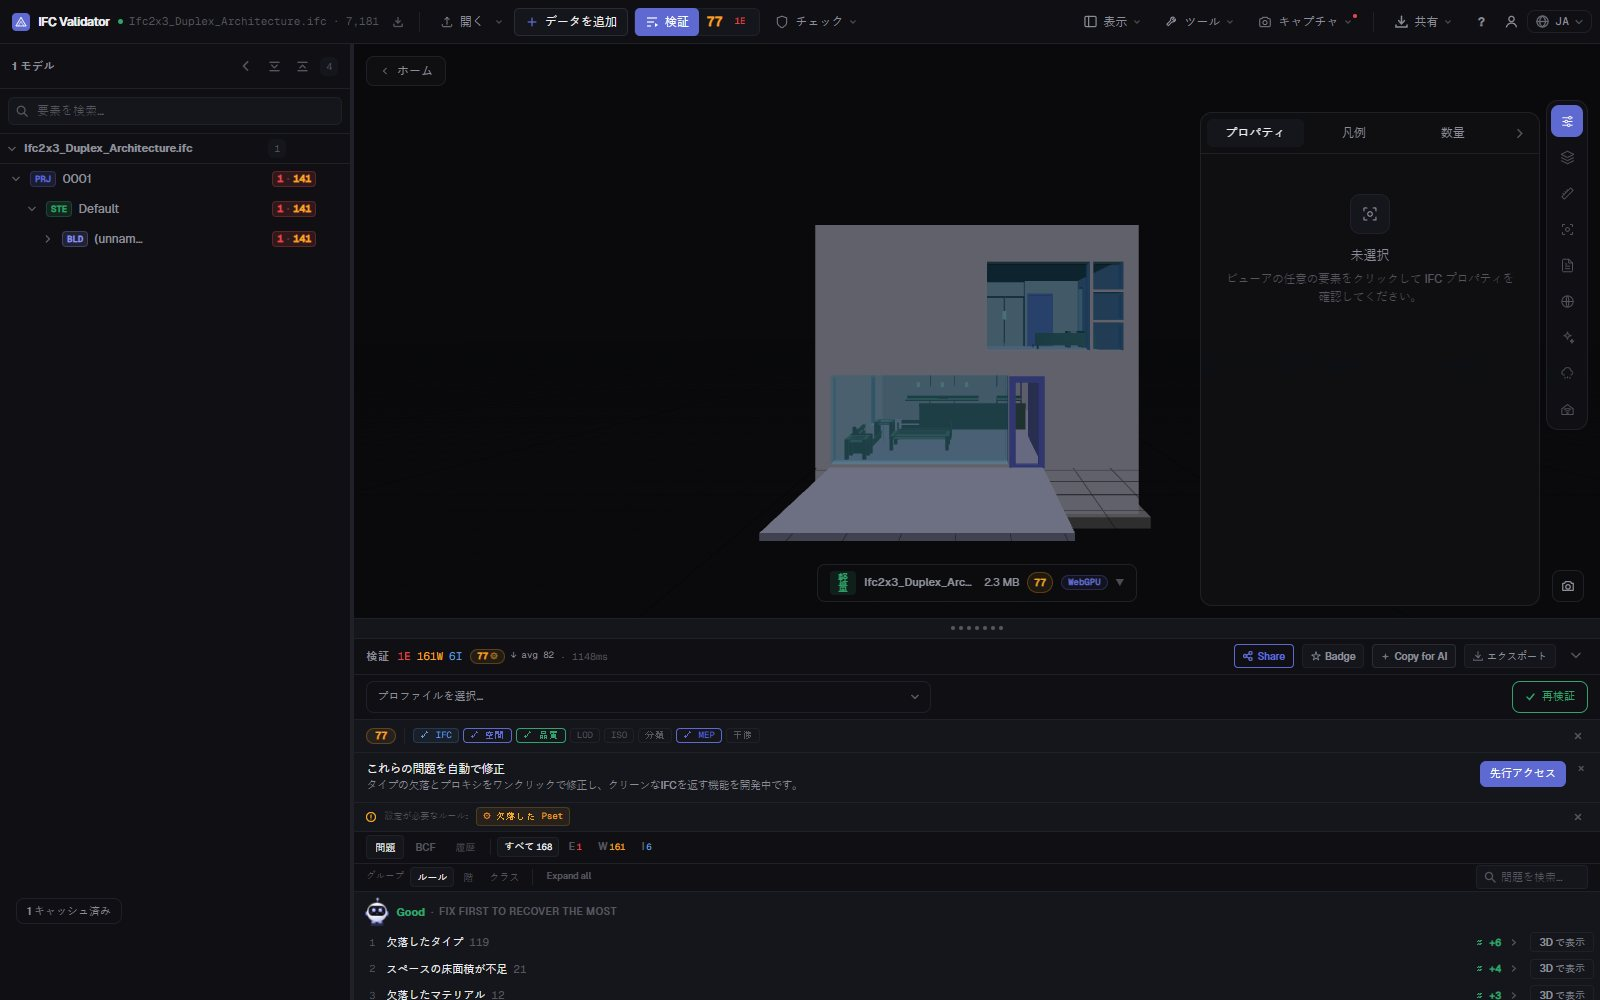
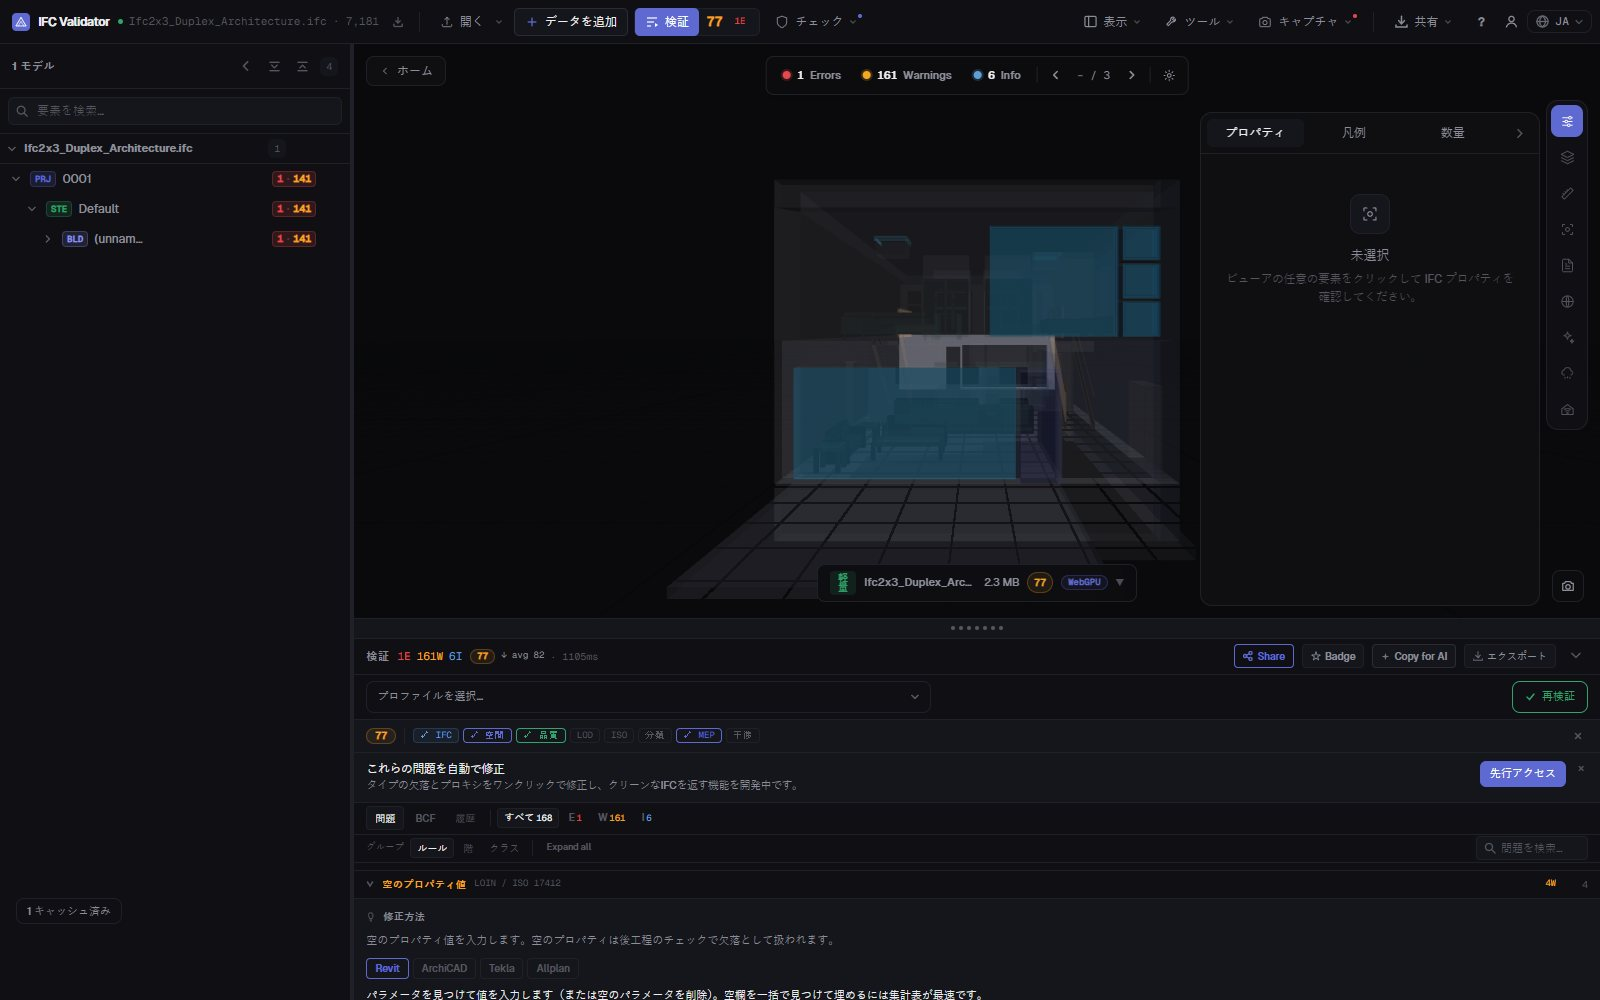
fix(seo): classification landings show empty property values, not an unconfigured Pset rule
The second screenshot on the 10 classification landings came from
RULE_MISSING_PROPERTY_SET, which needs required Psets configured and so found
nothing on the sample model. Recaptured with RULE_EMPTY_PROPERTY_VALUE (runs
without setup: group, how-to-fix and the elements isolated in 3D), with alt
text and captions rewritten in every language.

diff --git a/public/th/ifc-classification-checker/index.html b/public/th/ifc-classification-checker/index.html
@@ -100,8 +100,8 @@
       "@id": "https://www.ifcvieweronline.eu/img/bim-property-set-validation-th.jpg",
       "contentUrl": "https://www.ifcvieweronline.eu/img/bim-property-set-validation-th.jpg",
       "url": "https://www.ifcvieweronline.eu/img/bim-property-set-validation-th.jpg",
-      "name": "การตรวจสอบชุดคุณสมบัติ BIM แสดงองค์ประกอบที่ขาด Pset ในโมเดล IFC",
-      "caption": "การตรวจสอบแบบเดียวกันสำหรับชุดคุณสมบัติที่ขาด",
+      "name": "การตรวจสอบชุดคุณสมบัติ BIM แสดงองค์ประกอบที่มีค่าคุณสมบัติว่างในโมเดล IFC แยกแสดงใน 3D",
+      "caption": "ตรวจชุดคุณสมบัติ: องค์ประกอบที่มีค่าคุณสมบัติว่าง แสดงรายการและแสดงใน 3D",
       "width": 1600,
       "height": 1000,
       "inLanguage": "th",
@@ -268,8 +268,8 @@
       <div class="container">
         <p class="label">ภาพหน้าจอ</p>
         <figure>
-          <img src="../../img/bim-property-set-validation-th.jpg" width="1600" height="1000" alt="การตรวจสอบชุดคุณสมบัติ BIM แสดงองค์ประกอบที่ขาด Pset ในโมเดล IFC" loading="lazy" decoding="async" />
-          <figcaption>การตรวจสอบแบบเดียวกันสำหรับชุดคุณสมบัติที่ขาด</figcaption>
+          <img src="../../img/bim-property-set-validation-th.jpg" width="1600" height="1000" alt="การตรวจสอบชุดคุณสมบัติ BIM แสดงองค์ประกอบที่มีค่าคุณสมบัติว่างในโมเดล IFC แยกแสดงใน 3D" loading="lazy" decoding="async" />
+          <figcaption>ตรวจชุดคุณสมบัติ: องค์ประกอบที่มีค่าคุณสมบัติว่าง แสดงรายการและแสดงใน 3D</figcaption>
         </figure>
         <div data-live-embed data-app="../../th/" data-model="https://raw.githubusercontent.com/youshengCode/IfcSampleFiles/main/Ifc4_SampleHouse.ifc" data-validate data-panel data-lang="th"
              data-title="ตรวจสอบการจัดหมวดหมู่ IFC" data-cta="ตรวจสอบการจัดหมวดหมู่ — ฟรี" style="--le-h:560px;margin-top:32px"></div>

diff --git a/public/es/comprobar-clasificacion-ifc/index.html b/public/es/comprobar-clasificacion-ifc/index.html
@@ -100,8 +100,8 @@
       "@id": "https://www.ifcvieweronline.eu/img/validacion-conjuntos-propiedades-bim.jpg",
       "contentUrl": "https://www.ifcvieweronline.eu/img/validacion-conjuntos-propiedades-bim.jpg",
       "url": "https://www.ifcvieweronline.eu/img/validacion-conjuntos-propiedades-bim.jpg",
-      "name": "Validación de conjuntos de propiedades BIM con los elementos a los que les faltan Psets en un modelo IFC",
-      "caption": "La misma comprobación para los conjuntos de propiedades que faltan.",
+      "name": "Validación de conjuntos de propiedades BIM con los elementos con valores de propiedad vacíos en un modelo IFC, aislados en 3D",
+      "caption": "Validación de Psets: elementos con propiedades vacías, listados y mostrados en 3D.",
       "width": 1600,
       "height": 1000,
       "inLanguage": "es",
@@ -268,8 +268,8 @@
       <div class="container">
         <p class="label">Capturas</p>
         <figure>
-          <img src="../../img/validacion-conjuntos-propiedades-bim.jpg" width="1600" height="1000" alt="Validación de conjuntos de propiedades BIM con los elementos a los que les faltan Psets en un modelo IFC" loading="lazy" decoding="async" />
-          <figcaption>La misma comprobación para los conjuntos de propiedades que faltan.</figcaption>
+          <img src="../../img/validacion-conjuntos-propiedades-bim.jpg" width="1600" height="1000" alt="Validación de conjuntos de propiedades BIM con los elementos con valores de propiedad vacíos en un modelo IFC, aislados en 3D" loading="lazy" decoding="async" />
+          <figcaption>Validación de Psets: elementos con propiedades vacías, listados y mostrados en 3D.</figcaption>
         </figure>
         <div data-live-embed data-app="../../es/" data-model="https://raw.githubusercontent.com/youshengCode/IfcSampleFiles/main/Ifc4_SampleHouse.ifc" data-validate data-panel data-lang="es"
              data-title="Comprobar la clasificación IFC" data-cta="Comprobar la clasificación — gratis" style="--le-h:560px;margin-top:32px"></div>

diff --git a/public/fr/verifier-classification-ifc/index.html b/public/fr/verifier-classification-ifc/index.html
@@ -100,8 +100,8 @@
       "@id": "https://www.ifcvieweronline.eu/img/validation-jeux-de-proprietes-bim.jpg",
       "contentUrl": "https://www.ifcvieweronline.eu/img/validation-jeux-de-proprietes-bim.jpg",
       "url": "https://www.ifcvieweronline.eu/img/validation-jeux-de-proprietes-bim.jpg",
-      "name": "Validation des jeux de propriétés BIM montrant les éléments sans Psets dans une maquette IFC",
-      "caption": "Le même contrôle pour les jeux de propriétés manquants.",
+      "name": "Validation des jeux de propriétés BIM montrant les éléments aux valeurs de propriétés vides dans une maquette IFC, isolés en 3D",
+      "caption": "Validation des Psets : éléments aux propriétés vides, listés et montrés en 3D.",
       "width": 1600,
       "height": 1000,
       "inLanguage": "fr",
@@ -268,8 +268,8 @@
       <div class="container">
         <p class="label">Captures</p>
         <figure>
-          <img src="../../img/validation-jeux-de-proprietes-bim.jpg" width="1600" height="1000" alt="Validation des jeux de propriétés BIM montrant les éléments sans Psets dans une maquette IFC" loading="lazy" decoding="async" />
-          <figcaption>Le même contrôle pour les jeux de propriétés manquants.</figcaption>
+          <img src="../../img/validation-jeux-de-proprietes-bim.jpg" width="1600" height="1000" alt="Validation des jeux de propriétés BIM montrant les éléments aux valeurs de propriétés vides dans une maquette IFC, isolés en 3D" loading="lazy" decoding="async" />
+          <figcaption>Validation des Psets : éléments aux propriétés vides, listés et montrés en 3D.</figcaption>
         </figure>
         <div data-live-embed data-app="../../fr/" data-model="https://raw.githubusercontent.com/youshengCode/IfcSampleFiles/main/Ifc4_SampleHouse.ifc" data-validate data-panel data-lang="fr"
              data-title="Vérifier la classification IFC" data-cta="Vérifier la classification — gratuit" style="--le-h:560px;margin-top:32px"></div>

diff --git a/public/pt/verificar-classificacao-ifc/index.html b/public/pt/verificar-classificacao-ifc/index.html
@@ -100,8 +100,8 @@
       "@id": "https://www.ifcvieweronline.eu/img/validacao-conjuntos-propriedades-bim.jpg",
       "contentUrl": "https://www.ifcvieweronline.eu/img/validacao-conjuntos-propriedades-bim.jpg",
       "url": "https://www.ifcvieweronline.eu/img/validacao-conjuntos-propriedades-bim.jpg",
-      "name": "Validação de conjuntos de propriedades BIM com os elementos sem Psets num modelo IFC",
-      "caption": "A mesma verificação para conjuntos de propriedades em falta.",
+      "name": "Validação de conjuntos de propriedades BIM com os elementos com valores de propriedade vazios num modelo IFC, isolados em 3D",
+      "caption": "Validação de Psets: elementos com propriedades vazias, listados e mostrados em 3D.",
       "width": 1600,
       "height": 1000,
       "inLanguage": "pt",
@@ -268,8 +268,8 @@
       <div class="container">
         <p class="label">Capturas</p>
         <figure>
-          <img src="../../img/validacao-conjuntos-propriedades-bim.jpg" width="1600" height="1000" alt="Validação de conjuntos de propriedades BIM com os elementos sem Psets num modelo IFC" loading="lazy" decoding="async" />
-          <figcaption>A mesma verificação para conjuntos de propriedades em falta.</figcaption>
+          <img src="../../img/validacao-conjuntos-propriedades-bim.jpg" width="1600" height="1000" alt="Validação de conjuntos de propriedades BIM com os elementos com valores de propriedade vazios num modelo IFC, isolados em 3D" loading="lazy" decoding="async" />
+          <figcaption>Validação de Psets: elementos com propriedades vazias, listados e mostrados em 3D.</figcaption>
         </figure>
         <div data-live-embed data-app="../../pt/" data-model="https://raw.githubusercontent.com/youshengCode/IfcSampleFiles/main/Ifc4_SampleHouse.ifc" data-validate data-panel data-lang="pt"
              data-title="Verificar a classificação IFC" data-cta="Verificar a classificação — grátis" style="--le-h:560px;margin-top:32px"></div>

diff --git a/public/ja/ifc-classification-checker/index.html b/public/ja/ifc-classification-checker/index.html
@@ -100,8 +100,8 @@
       "@id": "https://www.ifcvieweronline.eu/img/bim-property-set-validation-ja.jpg",
       "contentUrl": "https://www.ifcvieweronline.eu/img/bim-property-set-validation-ja.jpg",
       "url": "https://www.ifcvieweronline.eu/img/bim-property-set-validation-ja.jpg",
-      "name": "IFC モデルでプロパティセットが欠落した要素を示す BIM プロパティセット検証",
-      "caption": "欠落したプロパティセットにも同じチェック。",
+      "name": "IFC モデルでプロパティ値が空の要素を 3D で分離表示する BIM プロパティセット検証",
+      "caption": "プロパティセット検証：値が空の要素を一覧表示し 3D で表示。",
       "width": 1600,
       "height": 1000,
       "inLanguage": "ja",
@@ -268,8 +268,8 @@
       <div class="container">
         <p class="label">スクリーンショット</p>
         <figure>
-          <img src="../../img/bim-property-set-validation-ja.jpg" width="1600" height="1000" alt="IFC モデルでプロパティセットが欠落した要素を示す BIM プロパティセット検証" loading="lazy" decoding="async" />
-          <figcaption>欠落したプロパティセットにも同じチェック。</figcaption>
+          <img src="../../img/bim-property-set-validation-ja.jpg" width="1600" height="1000" alt="IFC モデルでプロパティ値が空の要素を 3D で分離表示する BIM プロパティセット検証" loading="lazy" decoding="async" />
+          <figcaption>プロパティセット検証：値が空の要素を一覧表示し 3D で表示。</figcaption>
         </figure>
         <div data-live-embed data-app="../../ja/" data-model="https://raw.githubusercontent.com/youshengCode/IfcSampleFiles/main/Ifc4_SampleHouse.ifc" data-validate data-panel data-lang="ja"
              data-title="IFC 分類チェック" data-cta="分類をチェック — 無料" style="--le-h:560px;margin-top:32px"></div>

diff --git a/public/ca/comprovar-classificacio-ifc/index.html b/public/ca/comprovar-classificacio-ifc/index.html
@@ -100,8 +100,8 @@
       "@id": "https://www.ifcvieweronline.eu/img/validacio-conjunts-propietats-bim.jpg",
       "contentUrl": "https://www.ifcvieweronline.eu/img/validacio-conjunts-propietats-bim.jpg",
       "url": "https://www.ifcvieweronline.eu/img/validacio-conjunts-propietats-bim.jpg",
-      "name": "Validació de conjunts de propietats BIM amb els elements sense Psets en un model IFC",
-      "caption": "La mateixa comprovació per als conjunts de propietats que falten.",
+      "name": "Validació de conjunts de propietats BIM amb els elements amb valors de propietat buits en un model IFC, aïllats en 3D",
+      "caption": "Validació de Psets: elements amb propietats buides, llistats i mostrats en 3D.",
       "width": 1600,
       "height": 1000,
       "inLanguage": "ca",
@@ -268,8 +268,8 @@
       <div class="container">
         <p class="label">Captures</p>
         <figure>
-          <img src="../../img/validacio-conjunts-propietats-bim.jpg" width="1600" height="1000" alt="Validació de conjunts de propietats BIM amb els elements sense Psets en un model IFC" loading="lazy" decoding="async" />
-          <figcaption>La mateixa comprovació per als conjunts de propietats que falten.</figcaption>
+          <img src="../../img/validacio-conjunts-propietats-bim.jpg" width="1600" height="1000" alt="Validació de conjunts de propietats BIM amb els elements amb valors de propietat buits en un model IFC, aïllats en 3D" loading="lazy" decoding="async" />
+          <figcaption>Validació de Psets: elements amb propietats buides, llistats i mostrats en 3D.</figcaption>
         </figure>
         <div data-live-embed data-app="../../ca/" data-model="https://raw.githubusercontent.com/youshengCode/IfcSampleFiles/main/Ifc4_SampleHouse.ifc" data-validate data-panel data-lang="ca"
              data-title="Comprovar la classificació IFC" data-cta="Comprovar la classificació — gratis" style="--le-h:560px;margin-top:32px"></div>

diff --git a/public/ifc-classification-checker/index.html b/public/ifc-classification-checker/index.html
@@ -100,8 +100,8 @@
       "@id": "https://www.ifcvieweronline.eu/img/bim-property-set-validation-missing-psets.jpg",
       "contentUrl": "https://www.ifcvieweronline.eu/img/bim-property-set-validation-missing-psets.jpg",
       "url": "https://www.ifcvieweronline.eu/img/bim-property-set-validation-missing-psets.jpg",
-      "name": "BIM property set validation showing elements with missing property sets in an IFC model",
-      "caption": "The same check for missing property sets, rule by rule.",
+      "name": "BIM property set validation showing the elements with empty property values in an IFC model, isolated in 3D",
+      "caption": "Property set validation: elements whose properties are empty, listed and shown in 3D.",
       "width": 1600,
       "height": 1000,
       "inLanguage": "en",
@@ -268,8 +268,8 @@
       <div class="container">
         <p class="label">Screenshots</p>
         <figure>
-          <img src="../img/bim-property-set-validation-missing-psets.jpg" width="1600" height="1000" alt="BIM property set validation showing elements with missing property sets in an IFC model" loading="lazy" decoding="async" />
-          <figcaption>The same check for missing property sets, rule by rule.</figcaption>
+          <img src="../img/bim-property-set-validation-missing-psets.jpg" width="1600" height="1000" alt="BIM property set validation showing the elements with empty property values in an IFC model, isolated in 3D" loading="lazy" decoding="async" />
+          <figcaption>Property set validation: elements whose properties are empty, listed and shown in 3D.</figcaption>
         </figure>
         <div data-live-embed data-app="../" data-model="https://raw.githubusercontent.com/youshengCode/IfcSampleFiles/main/Ifc4_SampleHouse.ifc" data-validate data-panel data-lang="en"
              data-title="IFC Classification Checker" data-cta="Check classification — free" style="--le-h:560px;margin-top:32px"></div>

diff --git a/public/de/ifc-klassifikation-pruefen/index.html b/public/de/ifc-klassifikation-pruefen/index.html
@@ -100,8 +100,8 @@
       "@id": "https://www.ifcvieweronline.eu/img/bim-eigenschaftssaetze-pruefen.jpg",
       "contentUrl": "https://www.ifcvieweronline.eu/img/bim-eigenschaftssaetze-pruefen.jpg",
       "url": "https://www.ifcvieweronline.eu/img/bim-eigenschaftssaetze-pruefen.jpg",
-      "name": "Prüfung der BIM-Eigenschaftssätze mit Elementen ohne Psets in einem IFC-Modell",
-      "caption": "Dieselbe Prüfung für fehlende Eigenschaftssätze.",
+      "name": "Prüfung der BIM-Eigenschaftssätze mit Elementen mit leeren Eigenschaftswerten in einem IFC-Modell, in 3D isoliert",
+      "caption": "Eigenschaftssätze prüfen: Elemente mit leeren Eigenschaften, aufgelistet und in 3D gezeigt.",
       "width": 1600,
       "height": 1000,
       "inLanguage": "de",
@@ -268,8 +268,8 @@
       <div class="container">
         <p class="label">Screenshots</p>
         <figure>
-          <img src="../../img/bim-eigenschaftssaetze-pruefen.jpg" width="1600" height="1000" alt="Prüfung der BIM-Eigenschaftssätze mit Elementen ohne Psets in einem IFC-Modell" loading="lazy" decoding="async" />
-          <figcaption>Dieselbe Prüfung für fehlende Eigenschaftssätze.</figcaption>
+          <img src="../../img/bim-eigenschaftssaetze-pruefen.jpg" width="1600" height="1000" alt="Prüfung der BIM-Eigenschaftssätze mit Elementen mit leeren Eigenschaftswerten in einem IFC-Modell, in 3D isoliert" loading="lazy" decoding="async" />
+          <figcaption>Eigenschaftssätze prüfen: Elemente mit leeren Eigenschaften, aufgelistet und in 3D gezeigt.</figcaption>
         </figure>
         <div data-live-embed data-app="../../de/" data-model="https://raw.githubusercontent.com/youshengCode/IfcSampleFiles/main/Ifc4_SampleHouse.ifc" data-validate data-panel data-lang="de"
              data-title="IFC-Klassifikation prüfen" data-cta="Klassifikation prüfen — kostenlos" style="--le-h:560px;margin-top:32px"></div>

diff --git a/public/it/verifica-classificazione-ifc/index.html b/public/it/verifica-classificazione-ifc/index.html
@@ -100,8 +100,8 @@
       "@id": "https://www.ifcvieweronline.eu/img/validazione-set-di-proprieta-bim.jpg",
       "contentUrl": "https://www.ifcvieweronline.eu/img/validazione-set-di-proprieta-bim.jpg",
       "url": "https://www.ifcvieweronline.eu/img/validazione-set-di-proprieta-bim.jpg",
-      "name": "Validazione dei set di proprietà BIM con gli elementi senza Pset in un modello IFC",
-      "caption": "Lo stesso controllo per i set di proprietà mancanti.",
+      "name": "Validazione dei set di proprietà BIM con gli elementi con valori di proprietà vuoti in un modello IFC, isolati in 3D",
+      "caption": "Validazione dei Pset: elementi con proprietà vuote, elencati e mostrati in 3D.",
       "width": 1600,
       "height": 1000,
       "inLanguage": "it",
@@ -268,8 +268,8 @@
       <div class="container">
         <p class="label">Schermate</p>
         <figure>
-          <img src="../../img/validazione-set-di-proprieta-bim.jpg" width="1600" height="1000" alt="Validazione dei set di proprietà BIM con gli elementi senza Pset in un modello IFC" loading="lazy" decoding="async" />
-          <figcaption>Lo stesso controllo per i set di proprietà mancanti.</figcaption>
+          <img src="../../img/validazione-set-di-proprieta-bim.jpg" width="1600" height="1000" alt="Validazione dei set di proprietà BIM con gli elementi con valori di proprietà vuoti in un modello IFC, isolati in 3D" loading="lazy" decoding="async" />
+          <figcaption>Validazione dei Pset: elementi con proprietà vuote, elencati e mostrati in 3D.</figcaption>
         </figure>
         <div data-live-embed data-app="../../it/" data-model="https://raw.githubusercontent.com/youshengCode/IfcSampleFiles/main/Ifc4_SampleHouse.ifc" data-validate data-panel data-lang="it"
              data-title="Verifica classificazione IFC" data-cta="Verifica la classificazione — gratis" style="--le-h:560px;margin-top:32px"></div>

diff --git a/public/zh/ifc-classification-checker/index.html b/public/zh/ifc-classification-checker/index.html
@@ -100,8 +100,8 @@
       "@id": "https://www.ifcvieweronline.eu/img/bim-property-set-validation-zh.jpg",
       "contentUrl": "https://www.ifcvieweronline.eu/img/bim-property-set-validation-zh.jpg",
       "url": "https://www.ifcvieweronline.eu/img/bim-property-set-validation-zh.jpg",
-      "name": "BIM 属性集验证，显示 IFC 模型中缺少属性集的构件",
-      "caption": "对缺失属性集进行同样的检查。",
+      "name": "BIM 属性集验证：IFC 模型中属性值为空的构件，在 3D 中隔离显示",
+      "caption": "属性集验证：属性值为空的构件，列出并在 3D 中显示。",
       "width": 1600,
       "height": 1000,
       "inLanguage": "zh",
@@ -268,8 +268,8 @@
       <div class="container">
         <p class="label">截图</p>
         <figure>
-          <img src="../../img/bim-property-set-validation-zh.jpg" width="1600" height="1000" alt="BIM 属性集验证，显示 IFC 模型中缺少属性集的构件" loading="lazy" decoding="async" />
-          <figcaption>对缺失属性集进行同样的检查。</figcaption>
+          <img src="../../img/bim-property-set-validation-zh.jpg" width="1600" height="1000" alt="BIM 属性集验证：IFC 模型中属性值为空的构件，在 3D 中隔离显示" loading="lazy" decoding="async" />
+          <figcaption>属性集验证：属性值为空的构件，列出并在 3D 中显示。</figcaption>
         </figure>
         <div data-live-embed data-app="../../zh/" data-model="https://raw.githubusercontent.com/youshengCode/IfcSampleFiles/main/Ifc4_SampleHouse.ifc" data-validate data-panel data-lang="zh"
              data-title="IFC 分类检查" data-cta="检查分类 — 免费" style="--le-h:560px;margin-top:32px"></div>
